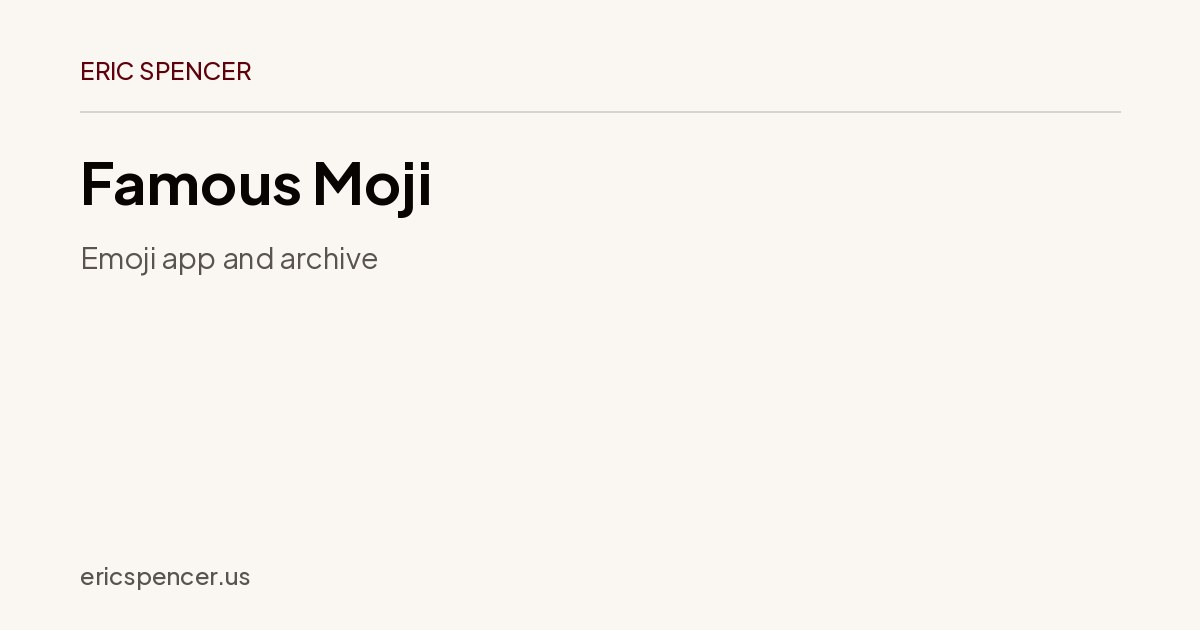
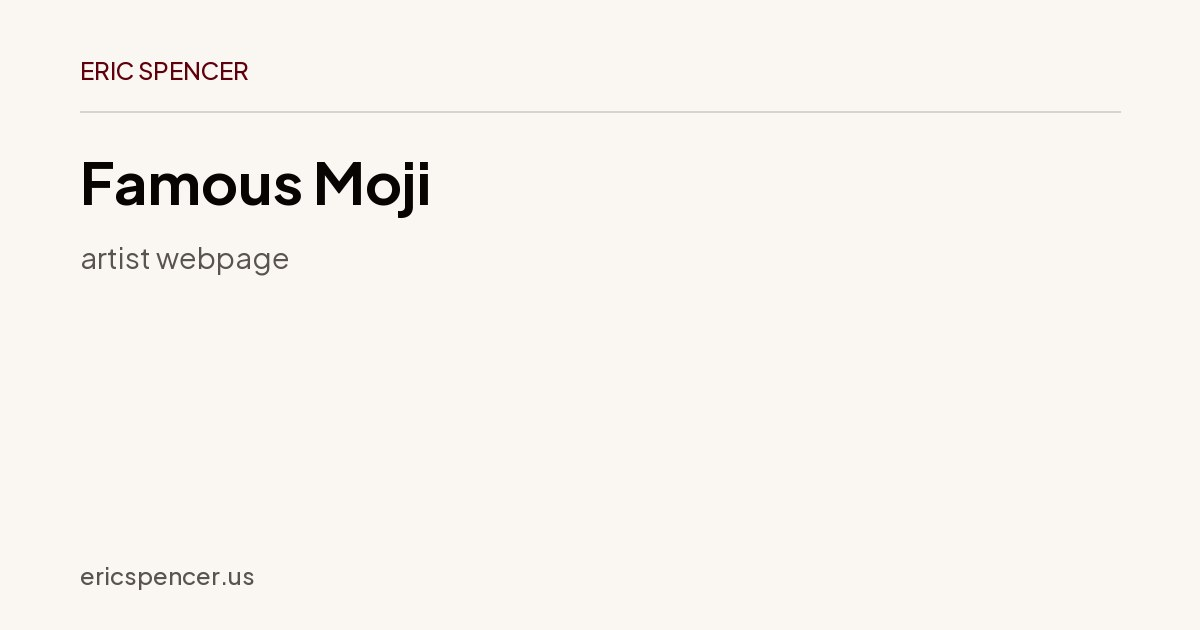
Describe Famous Moji as an artist webpage

diff --git a/projects/index.html b/projects/index.html
@@ -89,7 +89,7 @@ gtag('config', 'G-30FQRTZWJ8');
 <li class="project"><a class="project-name" href="https://ericspencer.us/ulam-spiral/" target="_blank" rel="noopener">Ulam Spiral</a><span class="project-description">Prime-marked number spiral</span></li>
 <li class="project"><a class="project-name" href="https://ericspencer.us/1rm/" target="_blank" rel="noopener">One Rep Max</a><span class="project-description">One-rep-max calculator<a class="project-writeup" href="/projects/one-rep-max/" aria-label="Read about One Rep Max Calculator">Project writeup →</a></span></li>
 <li class="project"><a class="project-name" href="https://tla.ericspencer.us/" target="_blank" rel="noopener">TLA+ Generator</a><span class="project-description">Natural-language TLA+ generator</span></li>
-<li class="project"><a class="project-name" href="https://famousmoji.com/" target="_blank" rel="noopener">Famous Moji</a><span class="project-description">Emoji app and archive</span></li>
+<li class="project"><a class="project-name" href="https://famousmoji.com/" target="_blank" rel="noopener">Famous Moji</a><span class="project-description">artist webpage</span></li>
 <li class="project"><a class="project-name" href="https://stemacle.com/" target="_blank" rel="noopener">Stemacle</a><span class="project-description">Browser stem separation app<a class="project-writeup" href="/projects/stemacle/" aria-label="Read about Stemacle">Project writeup →</a></span></li>
 <li class="project"><a class="project-name" href="https://brightbet.tech/" target="_blank" rel="noopener">BrightBet.tech</a><span class="project-description">Trade and prediction analysis<a class="project-writeup" href="/projects/brightbet/" aria-label="Read about BrightBet.tech">Project writeup →</a></span></li>
 <li class="project"><a class="project-name" href="https://ai4fm.cs.luc.edu/" target="_blank" rel="noopener">ai4fm.cs.luc.edu</a><span class="project-description">Loyola formal methods research group</span></li>

diff --git a/apps/famous-moji/index.html b/apps/famous-moji/index.html
@@ -2,9 +2,9 @@
 <meta charset="utf-8"><meta name="viewport" content="width=device-width,initial-scale=1">
 <title>Famous Moji | Eric Spencer</title><meta name="robots" content="noindex, follow">
 <link rel="canonical" href="https://famousmoji.com/"><meta http-equiv="refresh" content="0; url=https://famousmoji.com/">
-<meta name="description" content="Emoji app and archive">
+<meta name="description" content="artist webpage">
 <meta property="og:type" content="website"><meta property="og:site_name" content="Eric Spencer">
-<meta property="og:title" content="Famous Moji | Eric Spencer"><meta property="og:description" content="Emoji app and archive">
+<meta property="og:title" content="Famous Moji | Eric Spencer"><meta property="og:description" content="artist webpage">
 <meta property="og:url" content="https://famousmoji.com/">
 <meta property="og:image" content="https://ericspencer.us/assets/og/apps-famous-moji.jpg">
 <meta property="og:image:type" content="image/jpeg">
@@ -15,6 +15,6 @@
 <meta name="twitter:image" content="https://ericspencer.us/assets/og/apps-famous-moji.jpg">
 <meta name="twitter:image:alt" content="Famous Moji | Eric Spencer — ericspencer.us">
 <meta property="linkedin:image" content="https://ericspencer.us/assets/og/apps-famous-moji.jpg">
-<meta name="twitter:title" content="Famous Moji | Eric Spencer"><meta name="twitter:description" content="Emoji app and archive">
+<meta name="twitter:title" content="Famous Moji | Eric Spencer"><meta name="twitter:description" content="artist webpage">
 <link rel="icon" href="/favicon.svg" type="image/svg+xml"><!-- redirect stub -->
 </head><body><p>Opening <a href="https://famousmoji.com/">Famous Moji</a>.</p><script>location.replace("https://famousmoji.com/");</script></body></html>

diff --git a/index.html b/index.html
@@ -199,7 +199,7 @@ gtag('config', 'G-30FQRTZWJ8');
 <div class="proj"><a class="nm" href="https://ericspencer.us/ulam-spiral/">Ulam Spiral</a><span class="dt"></span><span class="ds">Prime-marked number spiral</span></div>
 <div class="proj"><a class="nm" href="https://ericspencer.us/1rm/">One Rep Max</a><span class="dt"></span><span class="ds">One-rep-max calculator</span></div>
 <div class="proj"><a class="nm" href="https://tla.ericspencer.us/">TLA+ Generator</a><span class="dt"></span><span class="ds">Natural-language TLA+ generator</span></div>
-<div class="proj"><a class="nm" href="https://famousmoji.com/">Famous Moji</a><span class="dt"></span><span class="ds">Emoji app and archive</span></div>
+<div class="proj"><a class="nm" href="https://famousmoji.com/">Famous Moji</a><span class="dt"></span><span class="ds">artist webpage</span></div>
 <div class="proj"><a class="nm" href="https://stemacle.com/">Stemacle</a><span class="dt"></span><span class="ds">Browser stem separation app</span></div>
 <div class="proj"><a class="nm" href="https://brightbet.tech/">BrightBet.tech</a><span class="dt"></span><span class="ds">Trade and prediction analysis</span></div>
 <div class="proj"><a class="nm" href="https://ai4fm.cs.luc.edu/">ai4fm.cs.luc.edu</a><span class="dt"></span><span class="ds">Loyola formal methods research group</span></div>
